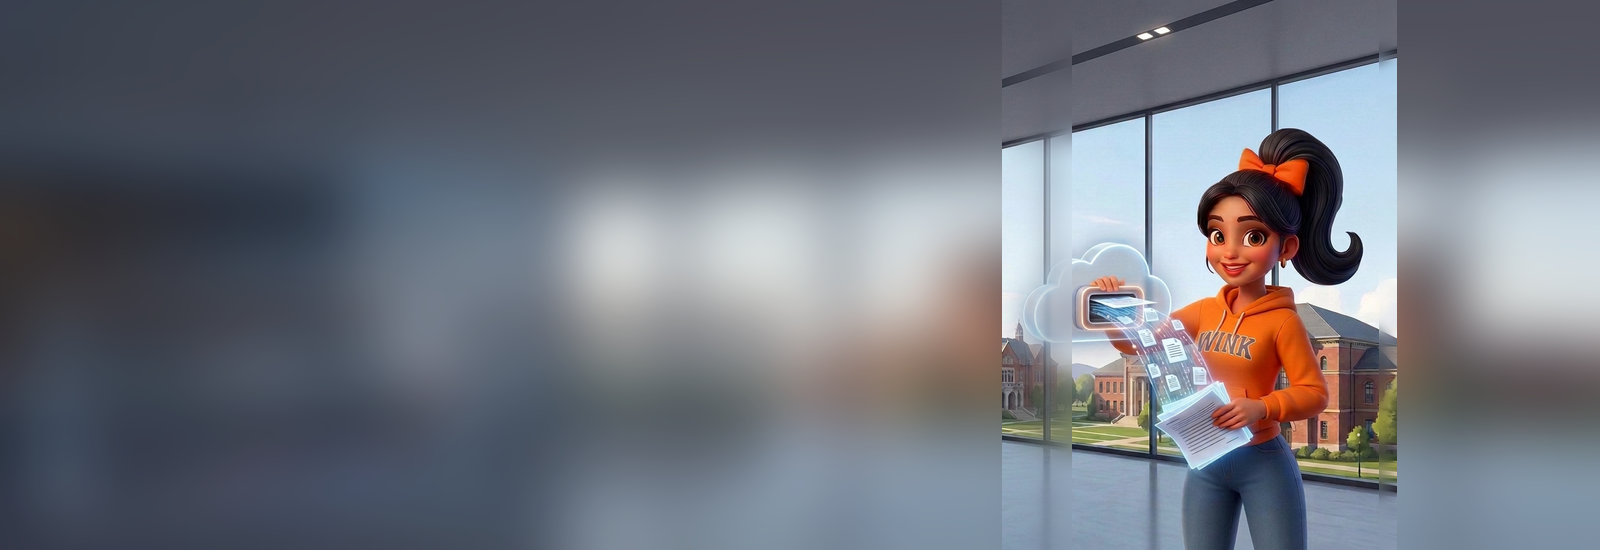
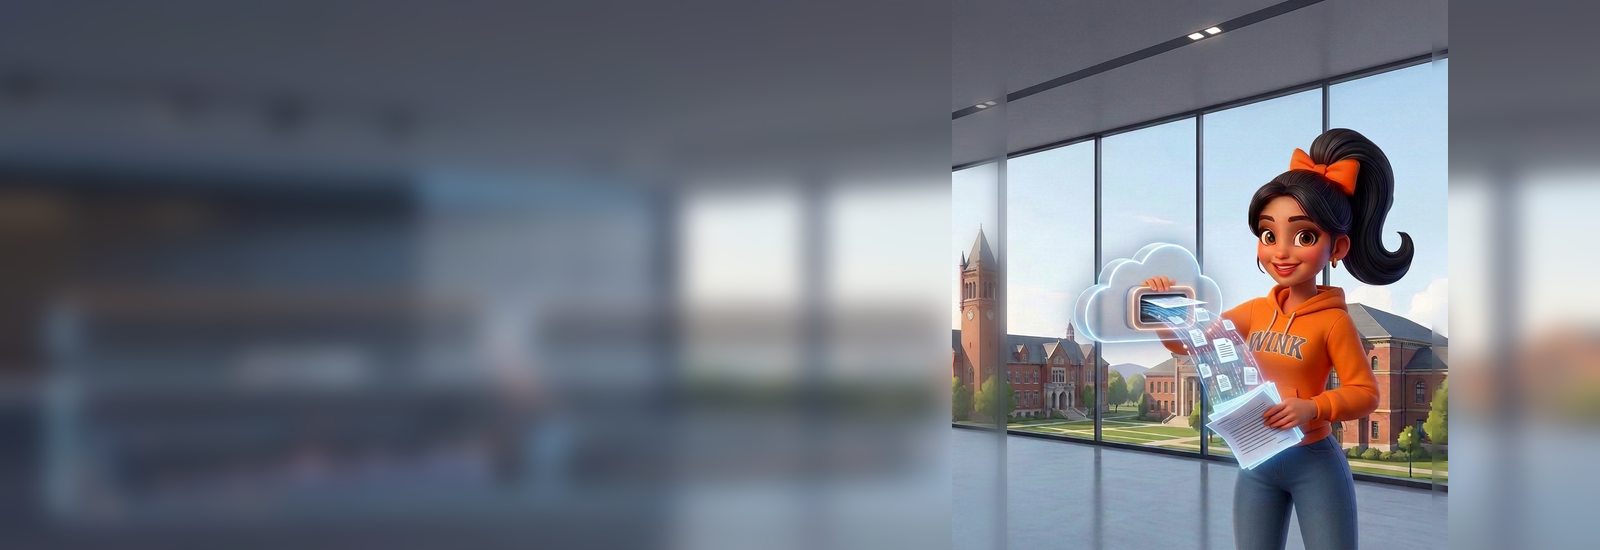
i

diff --git a/templates/documents.html b/templates/documents.html
@@ -106,7 +106,7 @@
       overflow: hidden;
       background-image: url("{{ url_for('static', filename='images/1786784699860_wink-hero.png') }}");
       background-size: cover;
-      background-position: center 22%;
+      background-position: center center;
       isolation: isolate;
     }
     .hero-card::before {
@@ -151,8 +151,8 @@
 
   <div class="page-shell">
 
-    <div class="hero-card">
-      <div class="hero-text">
+    <div class="hero-card" style="display:flex !important;flex-direction:row !important;align-items:center !important;justify-content:flex-start !important;">
+      <div class="hero-text" style="text-align:left !important;margin:0 auto 0 0 !important;margin-left:0 !important;margin-right:auto !important;max-width:580px !important;width:auto !important;padding:34px 32px 34px 44px !important;">
         <div class="hero-line-1">Give WINK</div>
         <div class="hero-line-2">Your Course Material</div>
         <p style="margin-bottom:18px;color:#1a1a24;font-weight:500;">
